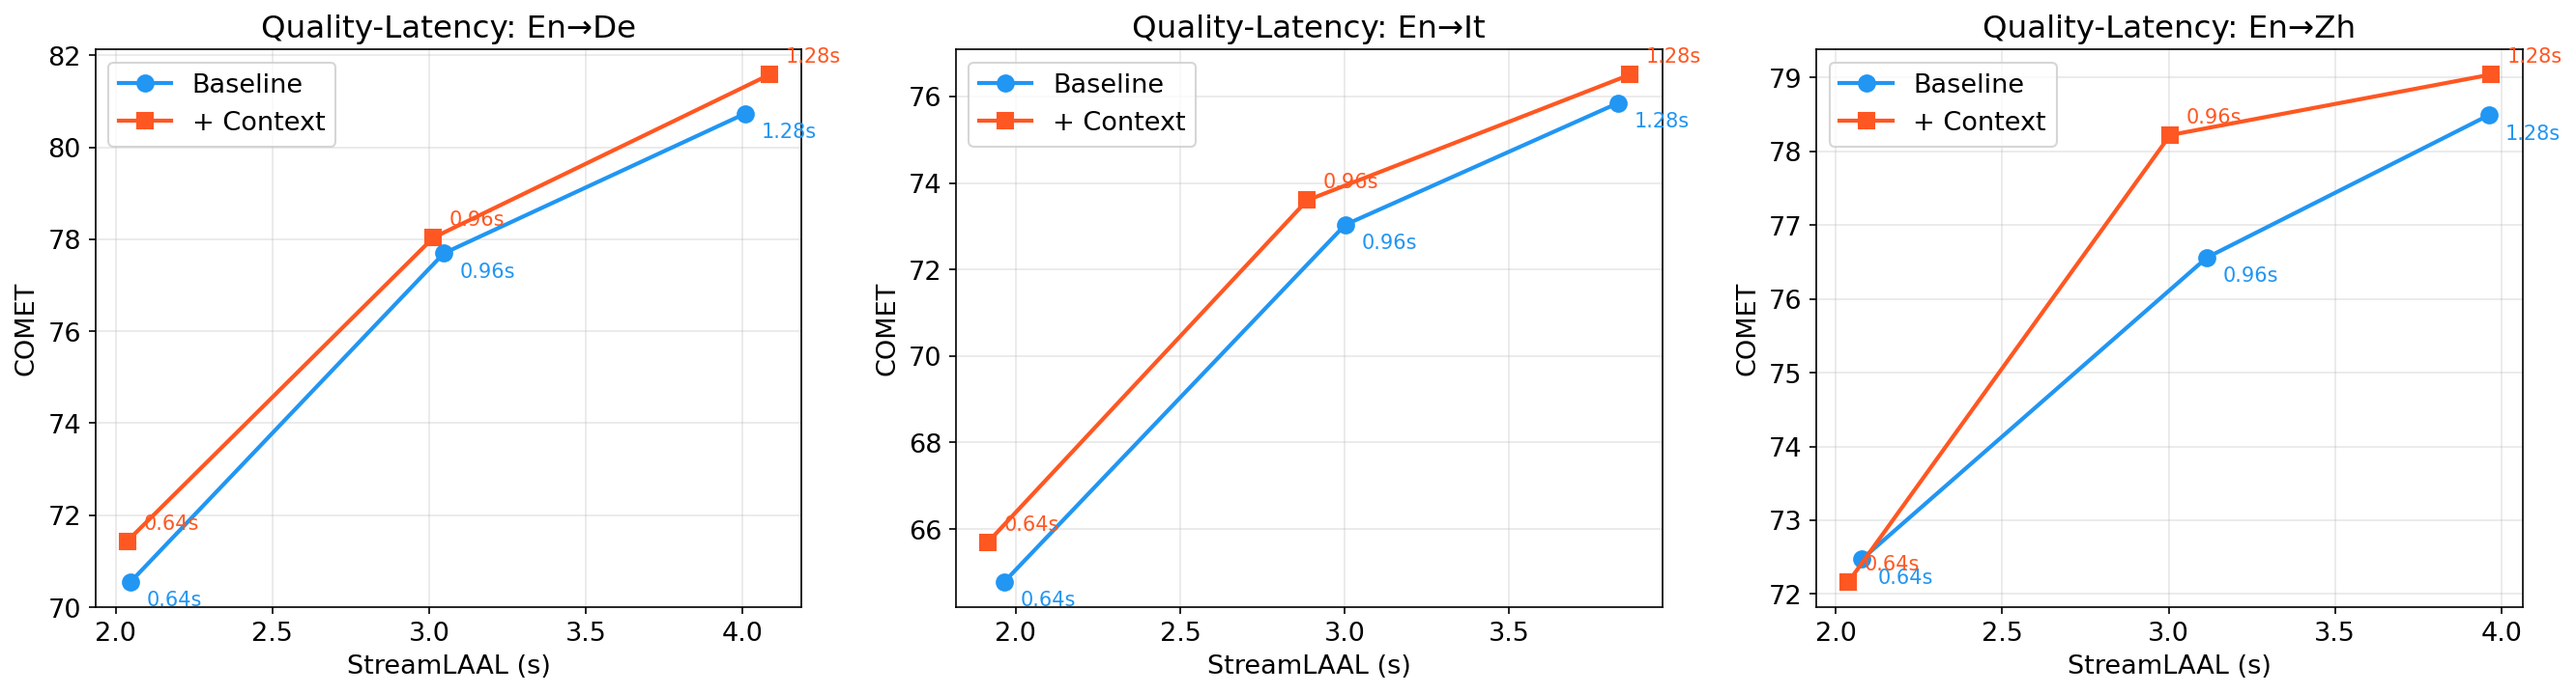
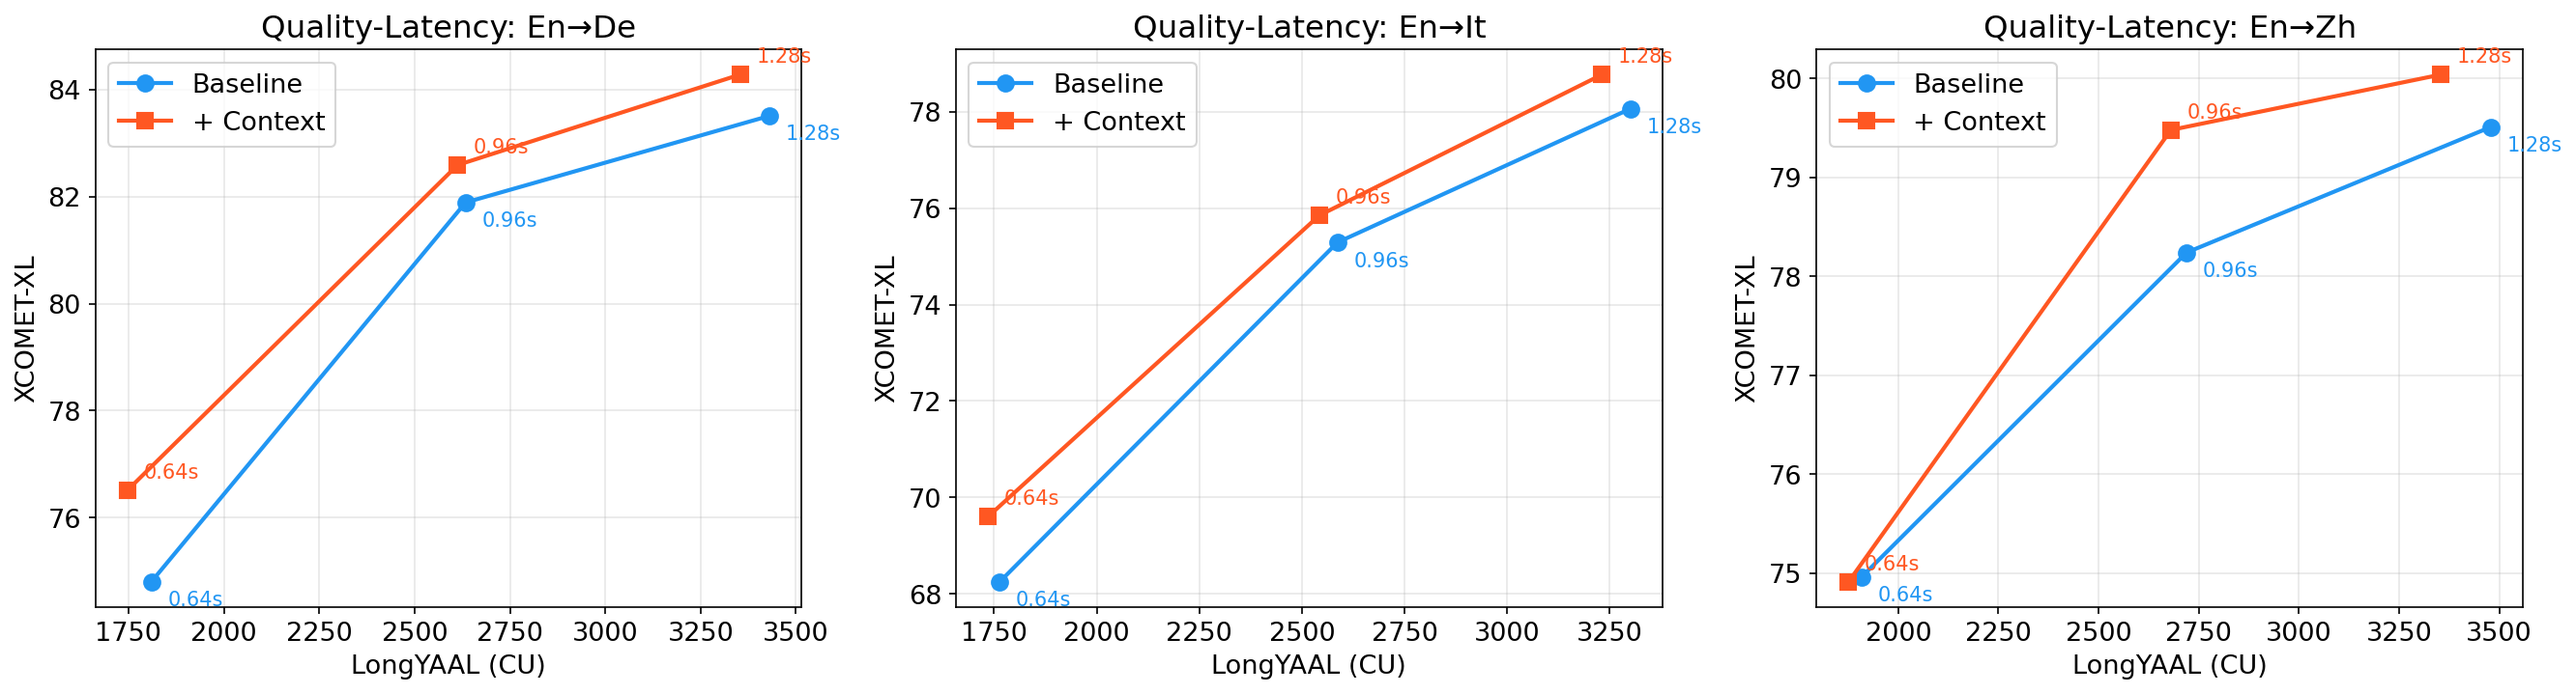
update eval with omnistevval

diff --git a/plot_tradeoff.py b/plot_tradeoff.py
@@ -9,12 +9,12 @@ matplotlib.rcParams.update({"font.size": 13})
 
 
 def parse_eval(path):
-    """Parse an eval.txt file, return (ideal_latency, bleu, comet)."""
+    """Parse an eval.txt file, return (longyaal_cu, bleu, comet)."""
     text = open(path).read()
-    laal = float(re.search(r"ideal_latency=([\d.]+)", text).group(1))
-    bleu = float(re.search(r"sacrebleu score: ([\d.]+)", text).group(1))
-    comet = float(re.search(r"comet score: ([\d.]+)", text).group(1)) * 100
-    return laal, bleu, comet
+    longyaal = float(re.search(r"^\s+LongYAAL \(CU\)\s+([\d.]+)", text, re.MULTILINE).group(1))
+    bleu = float(re.search(r"^\s+BLEU\s+([\d.]+)", text, re.MULTILINE).group(1))
+    comet = float(re.search(r"^\s+COMET\s+([\d.]+)", text, re.MULTILINE).group(1)) * 100
+    return longyaal, bleu, comet
 
 
 # Discover all eval.txt files and group by (lang, approach)
@@ -63,8 +63,8 @@ for col, lang in enumerate(lang_codes):
                         textcoords="offset points", xytext=(8, offset_y),
                         fontsize=10, color=color)
 
-    ax.set_xlabel("StreamLAAL (s)")
-    ax.set_ylabel("COMET")
+    ax.set_xlabel("LongYAAL (CU)")
+    ax.set_ylabel("XCOMET-XL")
     ax.set_title(f"Quality-Latency: {lang_names.get(lang, lang)}")
     ax.legend()
     ax.grid(True, alpha=0.3)

diff --git a/README.md b/README.md
@@ -24,7 +24,7 @@ conda create -y -n evaluation python=3.12
 conda activate evaluation
 pip install uv
 # if you encounter evaluation error for CJK languages, try install simulstream from source
-uv pip install simulstream[eval] setuptools==80.10.2
+uv pip install simulstream[eval] OmniSTEval setuptools==80.10.2
 ```
 
 ## Pipeline
@@ -95,6 +95,7 @@ TRANSCRIPT_FILE=/path/to/source_transcript.txt \
 AUDIO_DEFINITION=/path/to/audio-segments.yaml \
 LATENCY_UNIT=char \
 SACREBLEU_TOKENIZER=zh \
+MOSES_TOKENIZER=zh \
 bash eval.sh
 ```
 
